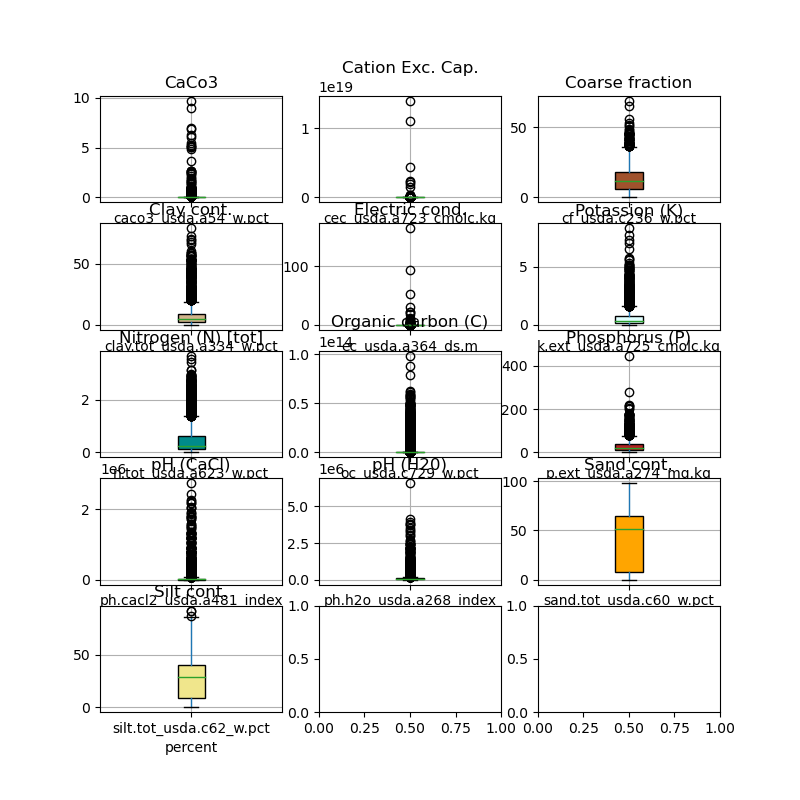
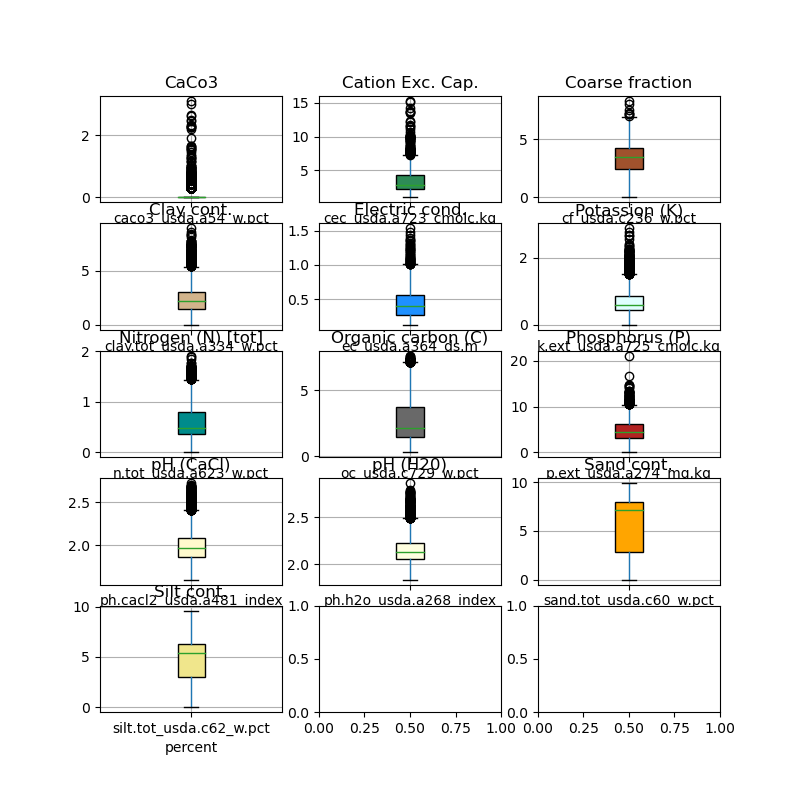
preprocessing transform+standardise

diff --git a/ossl-xspectre/OSSL_mlmodel.py b/ossl-xspectre/OSSL_mlmodel.py
@@ -79,8 +79,8 @@ from scipy.stats import boxcox
 
 import pickle
 
-from sklearn.preprocessing import scale, StandardScaler
-
+from sklearn.preprocessing import scale, StandardScaler, QuantileTransformer, PowerTransformer
+  
 from sklearn.cluster import FeatureAgglomeration
 from sklearn.linear_model import BayesianRidge
 from sklearn.pipeline import Pipeline, make_pipeline
@@ -2613,13 +2613,62 @@ class MachineLearningModel(Obj, RegressionModels):
                     
                 elif targetTransform.boxcox:
                     
-                    self.abundanceDf[column], boxcoxLambda = boxcox(self.abundanceDf[column])
+                    pt = PowerTransformer(method='box-cox')
                     
-                    print (boxcoxLambda)
+                    try:
                     
-                    SNULLE
+                        pt.fit( np.atleast_2d(self.abundanceDf[column]) )
+                        
+                        print(pt.lambdas_)
+                        
+                        print(pt.transform( np.atleast_2d(self.abundanceDf[column]) ))
+                        
+                        X = pt.transform( np.atleast_2d(self.abundanceDf[column]) )
+                        
+                        print (X)
+                        
+                        self.abundanceDf[column], boxcoxLambda = boxcox(self.abundanceDf[column])
+                                            
+                        self.transformD[column] = 'boxcox'
+                        
+                        self.abundanceDf[column]
+                        
+                        print ( self.abundanceDf[column] )
+                        
+                        SULLE
+                        
+                    except:
+                        
+                        print('cannot box-cox transform')
                     
-                    self.transformD[column] = 'boxcox'
+                    
+                    
+                elif targetTransform.yeojohnson:
+                    
+                    pt = PowerTransformer()
+                    
+                    pt.fit(np.atleast_2d(self.abundanceDf[column]))
+                    
+         
+                    
+                    print(pt.lambdas_)
+                    
+                    print(pt.transform( np.atleast_2d(self.abundanceDf[column]) ) )
+                    
+                    X = pt.transform( np.atleast_2d(self.abundanceDf[column]) )
+                    
+                    print (X)
+                    
+
+                    
+
+                        
+                elif targetTransform.quantile:
+                    
+                    pass
+                    
+                    #X = np.sort(rng.normal(loc=0.5, scale=0.25, size=(25, 1)), axis=0)
+                    #qt = QuantileTransformer(n_quantiles=10, random_state=0)
                     
             if hasattr(self.params.targetFeatureStandardise, column):
                     

diff --git a/ossl-xspectre/OSSL_plot.py b/ossl-xspectre/OSSL_plot.py
@@ -863,6 +863,7 @@ class SpectraPlot(Obj):
                         
         self.standardD = {}
         
+        '''
         # Do any standatdisation requested
         for column in substanceColumns:
             
@@ -895,7 +896,8 @@ class SpectraPlot(Obj):
                     
                     self.transformD[column] = 'log'
                     
-
+        '''
+        
     def _histogramPlot(self):
         """ Plot target feature distributions as histograms
         """
